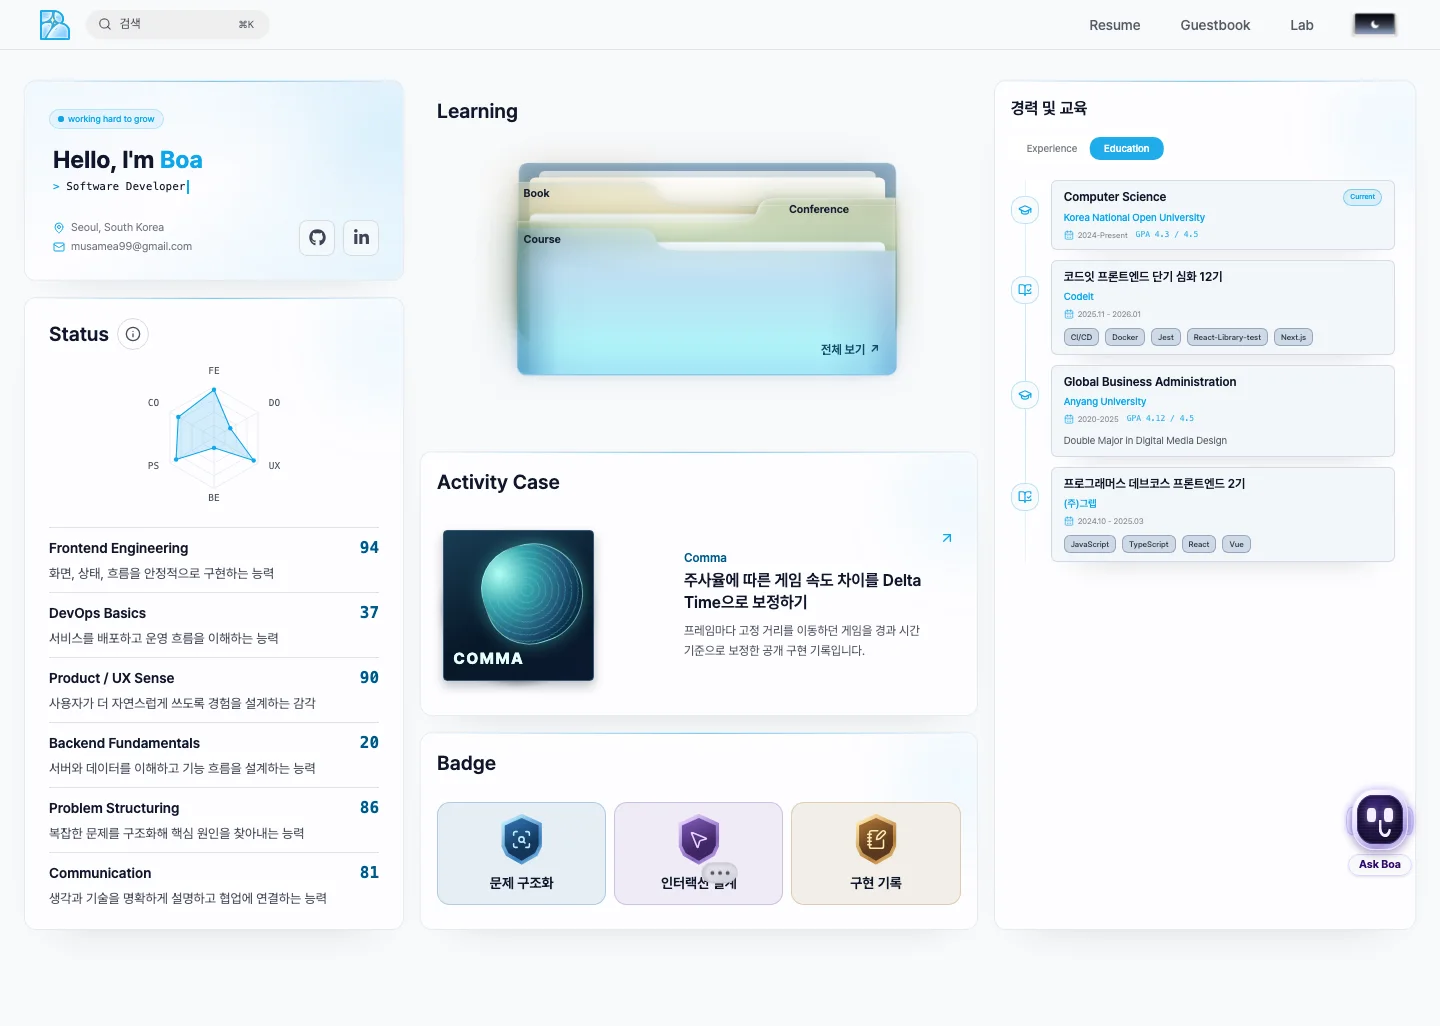
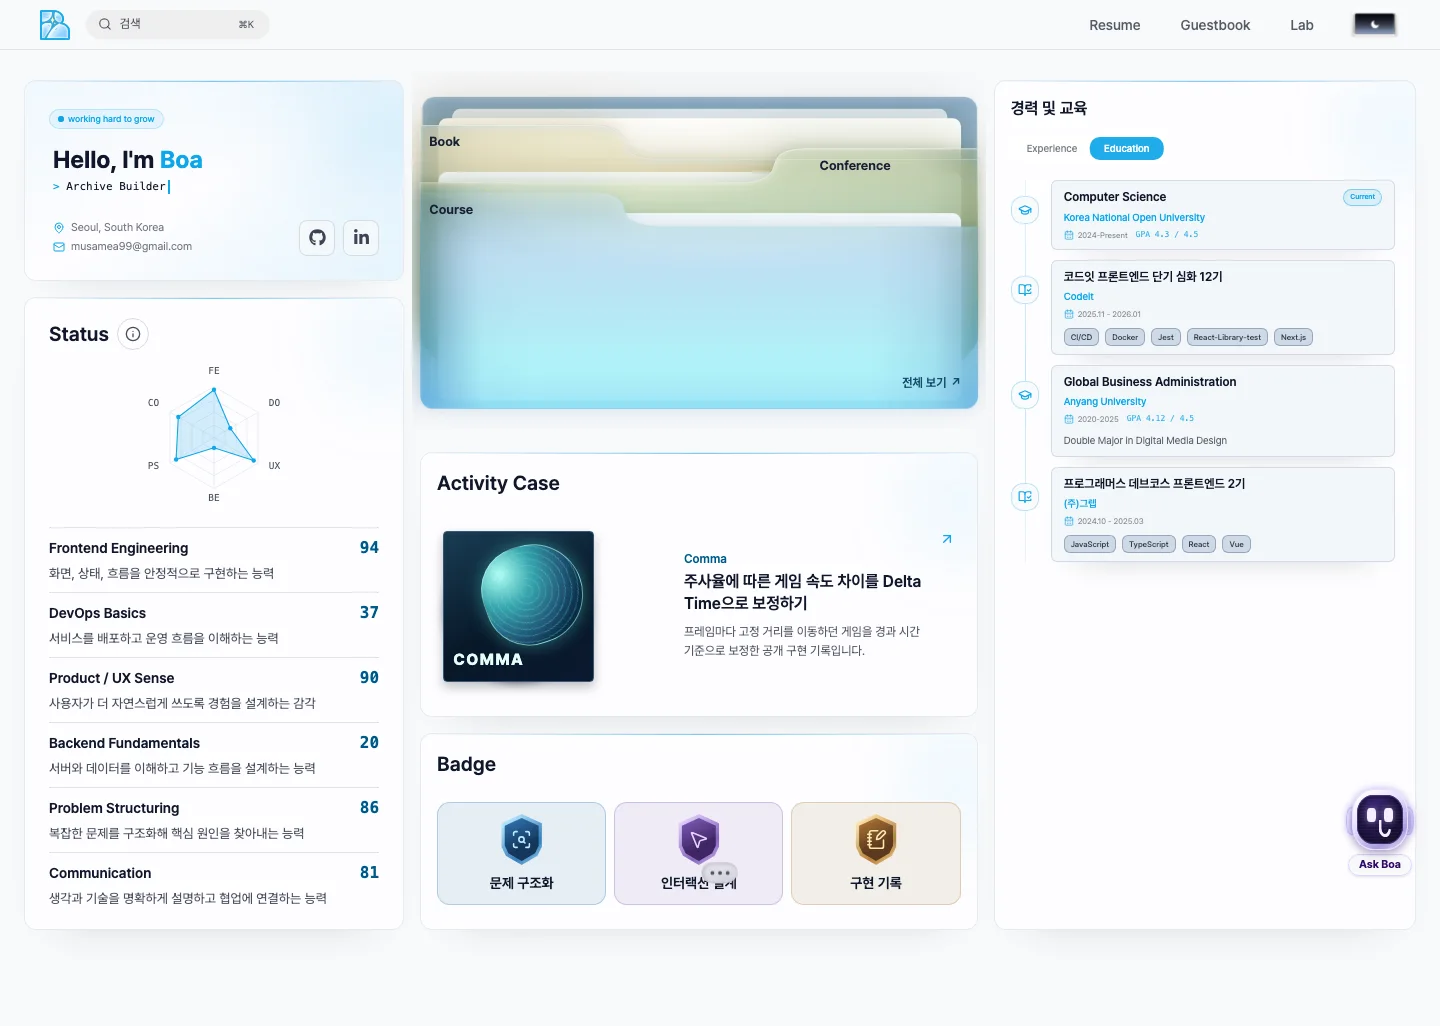
style: align the Learning folder with the Resume column

diff --git a/src/app/(layout)/(shell)/resume/_components/cards/LearningShelfPreview.tsx b/src/app/(layout)/(shell)/resume/_components/cards/LearningShelfPreview.tsx
@@ -13,22 +13,23 @@ function FolderIndex({ type }: { type: LearningType }) {
 
 export default function LearningShelfPreview({ entries, className, animationDelay }: ResumeCardSlotProps & { entries: readonly LearningPreview[] }) {
   return (
-    <ResumeCard accent={false} className={`${styles.folderCard} ${className ?? ""}`} animationDelay={animationDelay}>
+    <ResumeCard padded={false} accent={false} className={`${styles.folderCard} ${className ?? ""}`} animationDelay={animationDelay}>
       <section aria-label="최근 학습 후기" className="flex h-full flex-col gap-1">
-        <h2 className="text-xl font-semibold">Learning</h2>
-        <div className={styles.folderVisual}>
-          <LearningFolderArt viewBox="0 0 624 380" className={styles.folderArt} aria-hidden="true" focusable="false" data-learning-folder-art />
-          <LearningFolderReflections className={styles.folderReflections} aria-hidden="true" focusable="false" data-learning-folder-reflections />
-          <div className={styles.folderTrack}>
-            <FolderIndex type="book" />
-            <FolderIndex type="conference" />
-            <FolderIndex type="course" />
-            <Link
-              href="/learning"
-              className={`${styles.folderBrowse} inline-flex min-h-8 items-center gap-1 rounded px-2 text-xs font-semibold underline-offset-4 hover:underline focus-visible:outline-2 focus-visible:outline-offset-2 focus-visible:outline-current`}
-            >
-              전체 보기 <span aria-hidden>↗</span>
-            </Link>
+        <div className={styles.folderViewport}>
+          <div className={styles.folderVisual}>
+            <LearningFolderArt viewBox="0 0 624 380" className={styles.folderArt} aria-hidden="true" focusable="false" data-learning-folder-art />
+            <LearningFolderReflections className={styles.folderReflections} aria-hidden="true" focusable="false" data-learning-folder-reflections />
+            <div className={styles.folderTrack}>
+              <FolderIndex type="book" />
+              <FolderIndex type="conference" />
+              <FolderIndex type="course" />
+              <Link
+                href="/learning"
+                className={`${styles.folderBrowse} inline-flex min-h-8 items-center gap-1 rounded px-2 text-xs font-semibold underline-offset-4 hover:underline focus-visible:outline-2 focus-visible:outline-offset-2 focus-visible:outline-current`}
+              >
+                전체 보기 <span aria-hidden>↗</span>
+              </Link>
+            </div>
           </div>
         </div>
         {entries.length > 0 && (

diff --git a/e2e/resume.spec.ts b/e2e/resume.spec.ts
@@ -44,17 +44,18 @@ test("Resume keeps profile, status and experience alongside the new collections"
   await page.getByRole("button", { name: "Education", exact: true }).click();
   await expect(page.getByText("Korea National Open University", { exact: true }).filter({ visible: true })).toBeVisible();
   await expect(page.getByRole("button", { name: "Ask Boa", exact: true })).toBeVisible();
-  await expect(page.getByRole("heading", { name: "Learning", exact: true })).toBeVisible();
+  const learning = page.getByRole("region", { name: "최근 학습 후기" });
+  await expect(learning).toBeVisible();
   await expect(page.getByRole("heading", { name: "Activity Case", exact: true })).toBeVisible();
   await expect(page.getByRole("heading", { name: "Badge", exact: true })).toBeVisible();
   await expect(page.getByRole("link", { name: /문제 구조화/ })).toHaveAttribute("href", "/posts/game-delta-time-fps-fix");
   await expect(page.getByRole("heading", { name: "Projects", exact: true })).toHaveCount(0);
   if ((page.viewportSize()?.width ?? 0) >= 1024) {
     const profile = await page.getByRole("heading", { name: /Hello, I'm Boa/ }).boundingBox();
-    const learning = await page.getByRole("heading", { name: "Learning", exact: true }).boundingBox();
+    const learningBox = await learning.boundingBox();
     const experience = await page.getByRole("heading", { name: "경력 및 교육" }).boundingBox();
-    expect(profile!.x).toBeLessThan(learning!.x);
-    expect(learning!.x).toBeLessThan(experience!.x);
+    expect(profile!.x).toBeLessThan(learningBox!.x);
+    expect(learningBox!.x).toBeLessThan(experience!.x);
   }
 
   if (testInfo.project.name === "desktop-dark") {

diff --git a/e2e/learning.spec.ts b/e2e/learning.spec.ts
@@ -43,15 +43,19 @@ test("the Resume folder indexes link to their Learning categories", async ({ pag
   await expect(reflections).toBeVisible({ timeout: 2000 });
   await expect(reflections).toHaveCSS("mix-blend-mode", "screen");
   expect(await reflections.boundingBox()).toEqual(await art.boundingBox());
-  const heading = folder.getByRole("heading", { name: "Learning", exact: true });
+  await expect(folder.getByRole("heading", { name: "Learning", exact: true })).toHaveCount(0);
+  const activityCard = page.getByRole("region", { name: "Activity Case" }).locator("xpath=ancestor::section[1]");
   const browse = folder.getByRole("link", { name: /전체 보기/ });
-  const [headingBox, artBox, browseBox] = await Promise.all([
-    heading.boundingBox(),
+  const [activityBox, artBox, browseBox] = await Promise.all([
+    activityCard.boundingBox(),
     art.boundingBox(),
     browse.boundingBox(),
   ]);
-  expect(headingBox!.y + headingBox!.height).toBeLessThanOrEqual(artBox!.y);
-  const rightInset = artBox!.x + artBox!.width * 0.941 - (browseBox!.x + browseBox!.width);
+  const folderLeft = artBox!.x + artBox!.width * 0.0948;
+  const folderRight = artBox!.x + artBox!.width * 0.9409;
+  expect(Math.abs(folderLeft - activityBox!.x)).toBeLessThan(1);
+  expect(Math.abs(folderRight - (activityBox!.x + activityBox!.width))).toBeLessThan(1);
+  const rightInset = folderRight - (browseBox!.x + browseBox!.width);
   const bottomInset = artBox!.y + artBox!.height * 0.8984 - (browseBox!.y + browseBox!.height);
   expect(rightInset).toBeGreaterThan(0);
   expect(rightInset).toBeLessThan(20);

diff --git a/src/app/(layout)/(shell)/resume/_components/cards/ResumeCollections.module.css b/src/app/(layout)/(shell)/resume/_components/cards/ResumeCollections.module.css
@@ -1,14 +1,22 @@
 .folderCard {
   overflow: visible;
-  border-color: transparent;
+  border: 0;
   background: none;
   box-shadow: none;
 }
 
+.folderViewport {
+  display: flow-root;
+  overflow: clip;
+  overflow-clip-margin: 8px;
+}
+
 .folderVisual {
   position: relative;
-  width: min(100%, 28rem);
-  margin-inline: auto;
+  /* Align the 528-unit folder silhouette within the 624-unit SVG canvas. */
+  width: calc(100% * 624 / 528);
+  margin-inline-start: calc(-100% * 59.15 / 528);
+  margin-block: -6% -5%;
   container-type: inline-size;
 }
 
